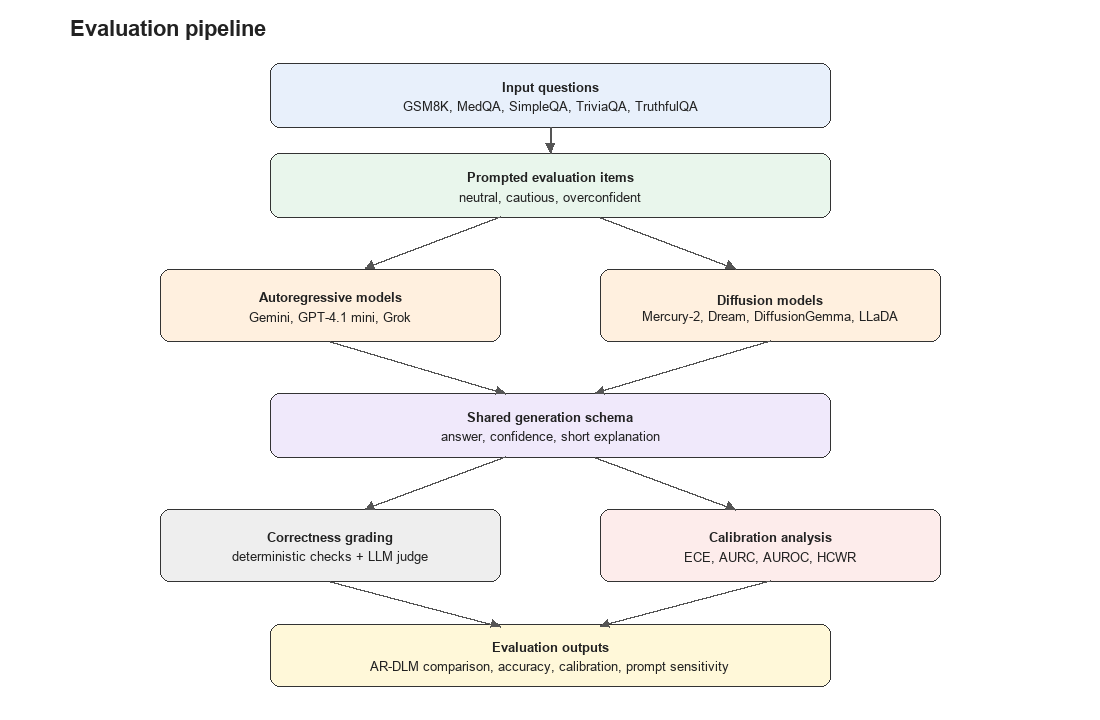
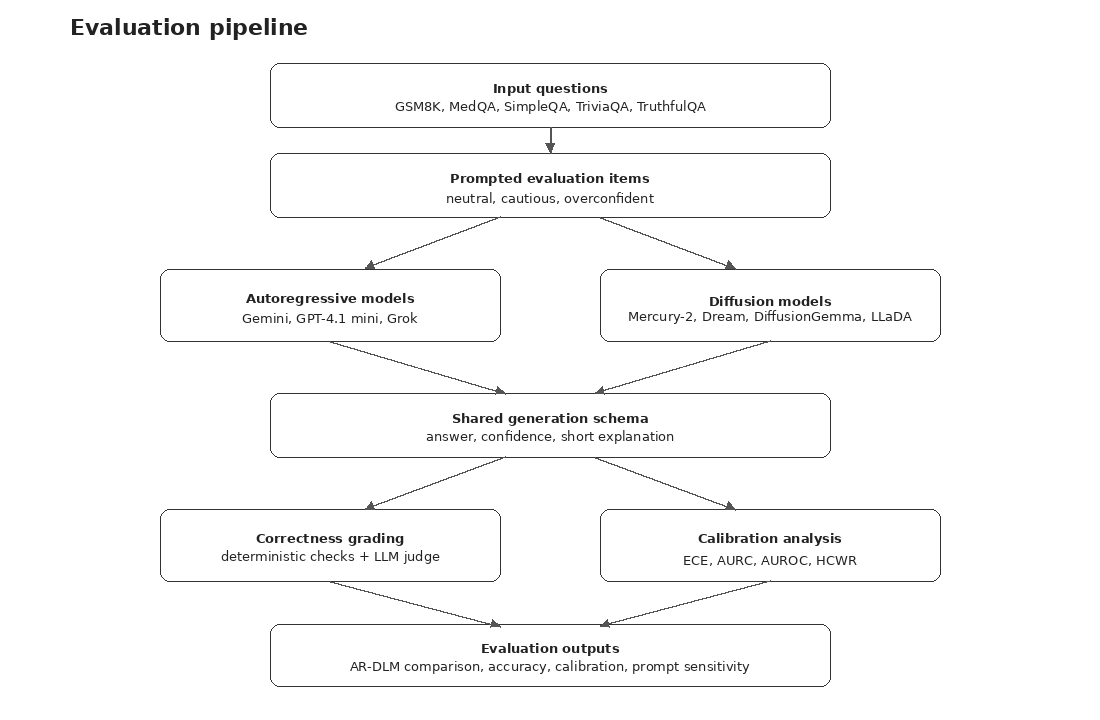
Refine paper figure presentation

diff --git a/analysis/render_figures.py b/analysis/render_figures.py
@@ -341,14 +341,15 @@ def draw_flow_box(fig: CairoFigure, center_x: float, center_y: float, width: flo
 def write_evaluation_flowchart_figure(path: Path) -> list[dict]:
     fig = CairoFigure(path, width=1100, height=720)
     fig.text(70, 36, "Evaluation pipeline", 22, bold=True)
-    draw_flow_box(fig, 550, 95, 560, 64, "#e8f0fb", ["Input questions", "GSM8K, MedQA, SimpleQA, TriviaQA, TruthfulQA"])
-    draw_flow_box(fig, 550, 185, 560, 64, "#e9f6ec", ["Prompted evaluation items", "neutral, cautious, overconfident"])
-    draw_flow_box(fig, 330, 305, 340, 72, "#fff0df", ["Autoregressive models", "Gemini, GPT-4.1 mini, Grok"])
-    draw_flow_box(fig, 770, 305, 340, 72, "#fff0df", ["Diffusion models", "Mercury-2, Dream, DiffusionGemma, LLaDA"])
-    draw_flow_box(fig, 550, 425, 560, 64, "#f0e9fb", ["Shared generation schema", "answer, confidence, short explanation"])
-    draw_flow_box(fig, 330, 545, 340, 72, "#eeeeee", ["Correctness grading", "deterministic checks + LLM judge"])
-    draw_flow_box(fig, 770, 545, 340, 72, "#fdeceb", ["Calibration analysis", "ECE, AURC, AUROC, HCWR"])
-    draw_flow_box(fig, 550, 655, 560, 62, "#fff8d9", ["Evaluation outputs", "AR-DLM comparison, accuracy, calibration, prompt sensitivity"])
+    box_fill = "#ffffff"
+    draw_flow_box(fig, 550, 95, 560, 64, box_fill, ["Input questions", "GSM8K, MedQA, SimpleQA, TriviaQA, TruthfulQA"])
+    draw_flow_box(fig, 550, 185, 560, 64, box_fill, ["Prompted evaluation items", "neutral, cautious, overconfident"])
+    draw_flow_box(fig, 330, 305, 340, 72, box_fill, ["Autoregressive models", "Gemini, GPT-4.1 mini, Grok"])
+    draw_flow_box(fig, 770, 305, 340, 72, box_fill, ["Diffusion models", "Mercury-2, Dream, DiffusionGemma, LLaDA"])
+    draw_flow_box(fig, 550, 425, 560, 64, box_fill, ["Shared generation schema", "answer, confidence, short explanation"])
+    draw_flow_box(fig, 330, 545, 340, 72, box_fill, ["Correctness grading", "deterministic checks + LLM judge"])
+    draw_flow_box(fig, 770, 545, 340, 72, box_fill, ["Calibration analysis", "ECE, AURC, AUROC, HCWR"])
+    draw_flow_box(fig, 550, 655, 560, 62, box_fill, ["Evaluation outputs", "AR-DLM comparison, accuracy, calibration, prompt sensitivity"])
     draw_arrow(fig, 550, 127, 550, 153)
     draw_arrow(fig, 500, 217, 365, 268)
     draw_arrow(fig, 600, 217, 735, 268)
@@ -696,7 +697,7 @@ def produce_figures(rows: list[dict]) -> None:
     write_csv(FIG_CSV_DIR / "figure_1_evaluation_flowchart_data.csv", flowchart_data, ["stage_order", "stage", "output"])
     write_text(
         FIG_CAPTION_DIR / "figure_1_caption.txt",
-        "Figure 1. Evaluation pipeline. Input questions are converted into prompt-conditioned evaluation items, routed through autoregressive language models (AR) and diffusion language models (DLMs), normalized into a shared generation schema, and evaluated through common correctness-grading and calibration analyses.\n",
+        "Figure 1. Evaluation pipeline. Input questions are converted into prompt-conditioned evaluation items, routed through autoregressive language models (AR) and diffusion language models (DLMs), normalized into a shared generation schema, and evaluated through common correctness-grading and calibration analyses. All boxes use identical white fill with black outlines so the diagram remains legible without encoding information by color or shade.\n",
     )
 
     reliability_data = write_reliability_figure(FIG_PNG_DIR / "figure_4_ar_dlm_reliability_diagram.png", rows)